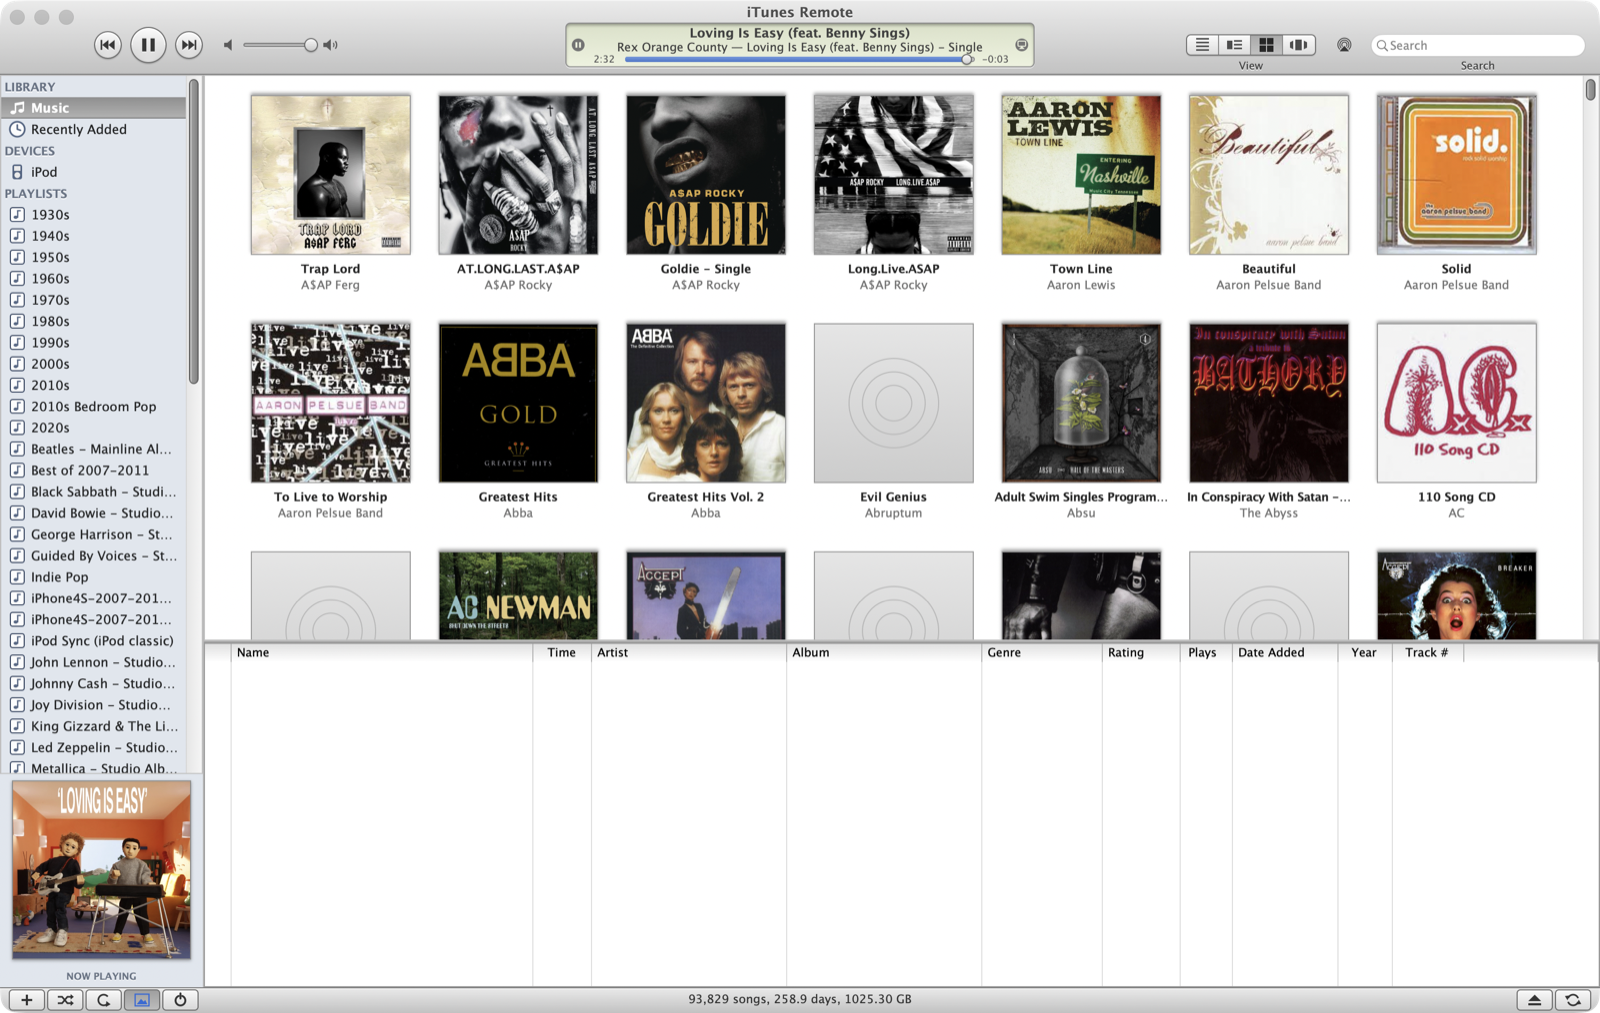
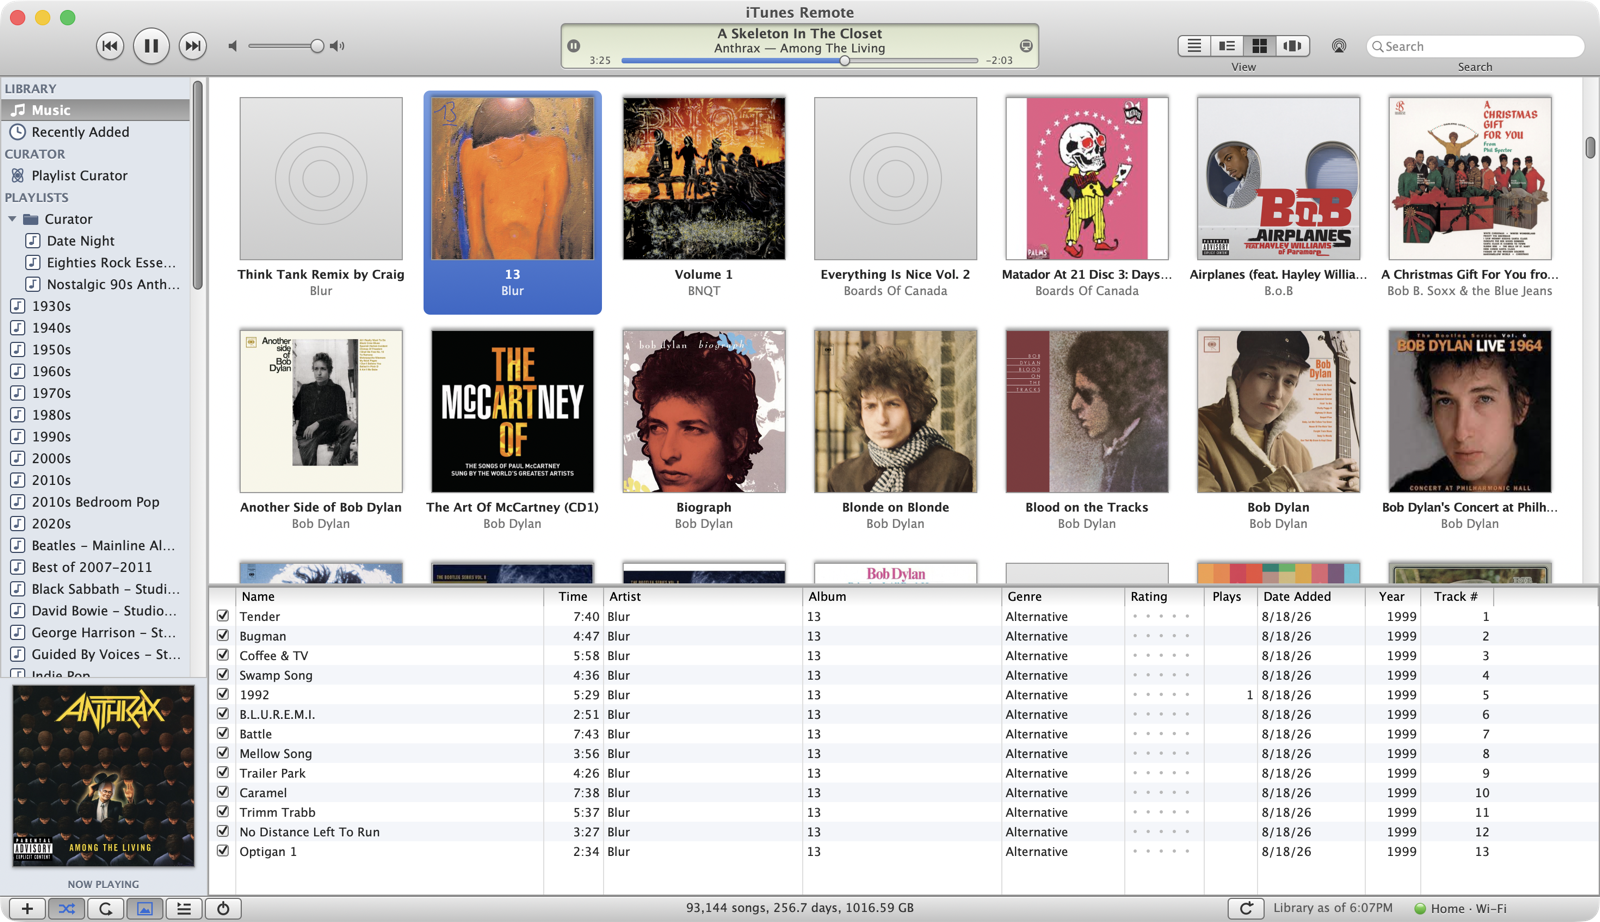
iTunes Remote: screenshots with the songs in them

diff --git a/itunes-remote.html b/itunes-remote.html
@@ -46,13 +46,13 @@
         </section>
 
         <figure class="shot">
-            <img src="images/itunes-remote/cover-flow.png" alt="The client showing Cover Flow: album covers reflected on black, the source list on the left, the green LCD at the top." width="1600" height="1013" loading="lazy">
-            <figcaption>Cover Flow, the source list, the green display. Everything here is read from iTunes on the other machine.</figcaption>
+            <img src="images/itunes-remote/cover-flow.png" alt="The client showing Cover Flow: album covers reflected on black with Blur's 13 in front, the source list on the left, the green LCD at the top, and the album's thirteen songs listed below." width="1600" height="922" loading="lazy">
+            <figcaption>Cover Flow, the source list, the green display, and the songs of the album in front. Everything here is read from iTunes on the other machine.</figcaption>
         </figure>
 
         <figure class="shot">
-            <img src="images/itunes-remote/grid.png" alt="The Grid view: album covers laid out in rows on white, with title and artist under each." width="1600" height="1013" loading="lazy">
-            <figcaption>Grid. Nine thousand albums, drawn a screenful at a time — covers are fetched lazily and never as views.</figcaption>
+            <img src="images/itunes-remote/grid.png" alt="The Grid view: album covers laid out in rows on white with title and artist under each, one album selected and its songs listed in the table below." width="1600" height="922" loading="lazy">
+            <figcaption>Grid. Nine thousand albums, drawn a screenful at a time — covers are fetched lazily and never as views — and the selected album's songs underneath.</figcaption>
         </figure>
 
         <figure class="shot">
@@ -141,7 +141,7 @@
         </figure>
 
         <figure class="shot">
-            <img src="images/itunes-remote/sync-progress.png" alt="The whole window during a sync, the display showing progress while Cover Flow stays visible behind it." width="1600" height="1013" loading="lazy">
+            <img src="images/itunes-remote/sync-progress.png" alt="The top of the window during a sync: the display showing the sync playlist being written, 300 of 384 selections, while the album grid stays visible beneath it." width="1600" height="640" loading="lazy">
             <figcaption>The same thing in context. Everything else stays usable while the sync runs.</figcaption>
         </figure>
 
@@ -164,8 +164,8 @@
         </section>
 
         <figure class="shot">
-            <img src="images/itunes-remote/curator.png" alt="The Playlist Curator page: a conversation on the left asking for a 90s road trip playlist and then louder songs, and on the right a twenty-song list with a Why column giving the model's reason for each pick." width="1600" height="1013" loading="lazy">
-            <figcaption>Two turns with the curator: a 90s road trip, then "swap the slow ones for something louder". Every song is one it found in the library, and the Why column is the model's own reason for each.</figcaption>
+            <img src="images/itunes-remote/curator.png" alt="The Playlist Curator page: a slim conversation on the left asking for a 40-song 90s road trip playlist and then louder songs, and on the right the forty-song list with year, time and a Why column giving the model's reason for each pick." width="1600" height="922" loading="lazy">
+            <figcaption>Two turns with the curator: forty songs for a 90s road trip, then "swap the slow ones for something louder" — 13 out, 13 in. Every song is one it found in the library, and the Why column is the model's own reason for each.</figcaption>
         </figure>
 
         <section class="section">
